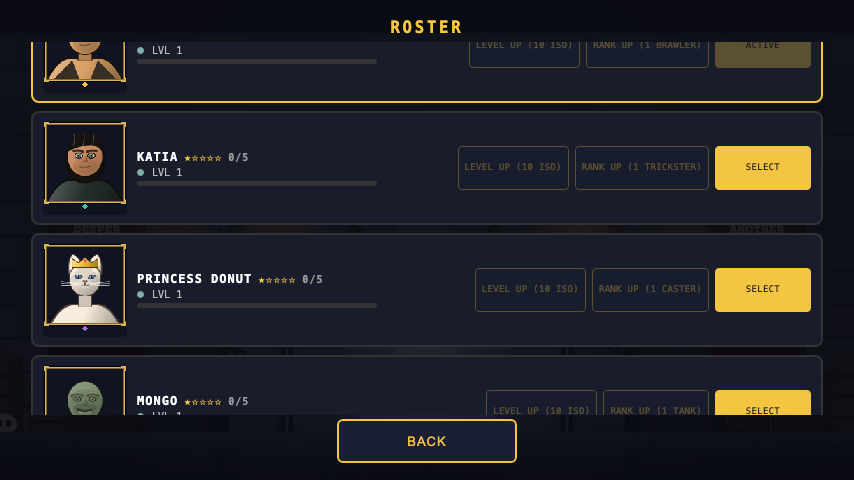
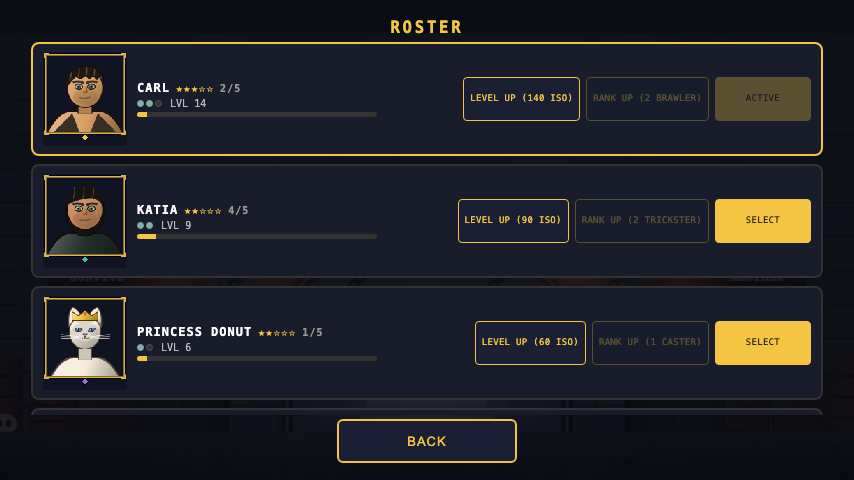
fix: roster first card was unreachable; make the card checks real
Fix-wave items 1 and 2 (final review Critical #1, Important #5, and the
Task 8.5 review's own Critical #1) -- one bug and the reason no test saw it.

.cards kept justify-content:center when Task 8.5 gave it overflow-y:auto.
On an overflowing scroll container this engine puts the start-side overflow
OUTSIDE the scrollable range, so the first champion's card was cut off at
every reachable scroll position: measured with a four-champion roster, its
top sat at -53.5px (854x480) / -98.5px (844x390) relative to #rosterCards
while the scroll range (0..54 / 0..99) only ever moved content further up.
That is ~99px of the ACTIVE champion -- portrait top, name, stars, the
ACTIVE button -- permanently unreachable on the phone target. .path's own
comment a hundred lines above already documents this exact behaviour and
fixes it with flex-start; the fix was never applied here. `safe center`
(with a plain flex-start declaration before it as the fallback) keeps a 1-2
champion roster centred and falls back to start alignment the moment the
list overflows: first card top 0, scroll range 0..107, last card still
reachable at max scroll.

Three things hid it, and --phone-check's card assertions now cover all of
them. They ran against a FRESH save (one champion -- one rect cannot
overlap another, so the roster half proved nothing), they sampled the
.node/.card PARENT rects (which provably cannot see the flex-shrink bug
they were written for: at ab73246 every row shrank to exactly its 44px
[…]

Changed region(s): [[0.0304, 0.0625, 0.9742, 0.875]]

diff --git a/index.html b/index.html
@@ -192,10 +192,24 @@ body.reduce-motion .node.next{animation:none;box-shadow:0 0 0 4px rgba(244,197,6
    name/DONUT's actions ran off both edges with overflow:hidden and no way to reach them). Same fix
    as fix-wave item 8 already applied to .path/.setrows/#shopBody: a list that outgrows its box
    scrolls to reach the rest instead of clipping it (the phone-layout brief's own "scrolling lists
-   allowed but no clipping" line). justify-content:center still centers a short (1-2 card) roster;
-   once content overflows, the browser's own scrollable-overflow behavior lets it be reached above
-   and below center by scrolling. */
-.cards{display:flex;flex-direction:column;gap:8px;overflow-y:auto;flex:1;justify-content:center}
+   allowed but no clipping" line).
+   Phase 8 final review, Critical #1 -- and the previous version of this comment was WRONG about the
+   second half of it. `justify-content:center` on an OVERFLOWING scroll container does not let the
+   overflow "be reached above and below center by scrolling": this engine places the start-side
+   overflow outside the scrollable range entirely, so it is unreachable at every scroll position.
+   Measured with the same 4-champion fixture the roster shot uses, before this fix: the first card's
+   top sat at -53.5px (854x480) / -98.5px (844x390) relative to #rosterCards at scrollTop 0, and the
+   scroll range (0..54 / 0..99) only ever moves content further UP -- so ~99px of the ACTIVE
+   champion's card (portrait top, name, stars, the ACTIVE button) was permanently cut off on the
+   phone target. That is exactly the behaviour .path's own comment a hundred lines above already
+   documents and fixes with flex-start; the fix was simply never applied here.
+   `safe center` is that fix while keeping what the centering was for: it behaves as `center` while
+   the content FITS (a 1-2 champion roster still sits mid-panel, no snap between densities) and falls
+   back to start alignment the moment it overflows, which puts the first card's top at 0 and inside
+   the scroll range (0..107 at 844x390, so the last card stays reachable too). The plain flex-start
+   declaration before it is the fallback for an engine with no `safe` overflow-alignment keyword: it
+   drops the whole declaration and lands on flex-start, which is never-centered but never clipped. */
+.cards{display:flex;flex-direction:column;gap:8px;overflow-y:auto;flex:1;justify-content:flex-start;justify-content:safe center}
 /* Task 8.5 fix round 1: flex-shrink:0, the same root-cause fix as .node above -- a roster card
    wasn't visibly overlapping (the controller's own note: "acceptable, only cut by scroll
    position"), but it was exposed to the identical flex-shrink risk as a scrollable flex-column

diff --git a/src/00_head.html b/src/00_head.html
@@ -192,10 +192,24 @@ body.reduce-motion .node.next{animation:none;box-shadow:0 0 0 4px rgba(244,197,6
    name/DONUT's actions ran off both edges with overflow:hidden and no way to reach them). Same fix
    as fix-wave item 8 already applied to .path/.setrows/#shopBody: a list that outgrows its box
    scrolls to reach the rest instead of clipping it (the phone-layout brief's own "scrolling lists
-   allowed but no clipping" line). justify-content:center still centers a short (1-2 card) roster;
-   once content overflows, the browser's own scrollable-overflow behavior lets it be reached above
-   and below center by scrolling. */
-.cards{display:flex;flex-direction:column;gap:8px;overflow-y:auto;flex:1;justify-content:center}
+   allowed but no clipping" line).
+   Phase 8 final review, Critical #1 -- and the previous version of this comment was WRONG about the
+   second half of it. `justify-content:center` on an OVERFLOWING scroll container does not let the
+   overflow "be reached above and below center by scrolling": this engine places the start-side
+   overflow outside the scrollable range entirely, so it is unreachable at every scroll position.
+   Measured with the same 4-champion fixture the roster shot uses, before this fix: the first card's
+   top sat at -53.5px (854x480) / -98.5px (844x390) relative to #rosterCards at scrollTop 0, and the
+   scroll range (0..54 / 0..99) only ever moves content further UP -- so ~99px of the ACTIVE
+   champion's card (portrait top, name, stars, the ACTIVE button) was permanently cut off on the
+   phone target. That is exactly the behaviour .path's own comment a hundred lines above already
+   documents and fixes with flex-start; the fix was simply never applied here.
+   `safe center` is that fix while keeping what the centering was for: it behaves as `center` while
+   the content FITS (a 1-2 champion roster still sits mid-panel, no snap between densities) and falls
+   back to start alignment the moment it overflows, which puts the first card's top at 0 and inside
+   the scroll range (0..107 at 844x390, so the last card stays reachable too). The plain flex-start
+   declaration before it is the fallback for an engine with no `safe` overflow-alignment keyword: it
+   drops the whole declaration and lands on flex-start, which is never-centered but never clipped. */
+.cards{display:flex;flex-direction:column;gap:8px;overflow-y:auto;flex:1;justify-content:flex-start;justify-content:safe center}
 /* Task 8.5 fix round 1: flex-shrink:0, the same root-cause fix as .node above -- a roster card
    wasn't visibly overlapping (the controller's own note: "acceptable, only cut by scroll
    position"), but it was exposed to the identical flex-shrink risk as a scrollable flex-column

diff --git a/tests/harness.py b/tests/harness.py
@@ -42,6 +42,14 @@ from playwright.sync_api import sync_playwright
 
 ROOT = os.path.dirname(os.path.dirname(os.path.abspath(__file__)))
 INDEX = 'file://' + os.path.join(ROOT, 'index.html')
+# The four-champion roster fixture, kept in one place because two things have to agree on it: the
+# docs/shots/p8-roster.png line in tools/shots.sh (which passes it as --pre) and --phone-check's own
+# roster seeding (Phase 8 final review, Important #5 -- a fresh one-champion save made every roster
+# card assertion vacuous). Four is the whole roster the game can grant today, so it is also the
+# densest list the .cards container ever has to lay out.
+ROSTER_PRE = ("Save.data.roster.katia={stars:1,rank:1,level:1,xp:0,shards:0};"
+              "Save.data.roster.donut={stars:1,rank:1,level:1,xp:0,shards:0};"
+              "Save.data.roster.mongo={stars:1,rank:1,level:1,xp:0,shards:0};Save.put()")
 
 def build_soak_js(seed, p1n, p2n, ain, ctrl_expr, ticks, enc='', probes=(), pre=''):
     """The one restart-on-KO soak loop, shared by run_matrix_cell and the plain `--sim` path: a
@@ -469,15 +477,15 @@ def main():
                           ">=44 CSS-px rect fully inside the viewport too -- one currently scrolled out "
                           "of a .path/.setrows/#shopBody internal scroll region is skipped, not failed, "
                           "since it's reachable by scrolling rather than clipped/inaccessible. Task 8.5 "
-                          "fix round 1: also asserts no two #mapPath .node elements' own bounding rects "
-                          "overlap, and likewise for #rosterCards .card, catching a flex-shrink layout "
-                          "bug (each row's box shrank below its own door-card/portrait-card child's "
-                          "real height, which then bled into neighboring rows) that per-button size/"
-                          "position checks alone can't see; and that the map's DOOR 1 (the door a "
-                          "player actually plays next) is fully inside the viewport with zero "
-                          "scrolling needed, even though the rest of a full floor may legitimately "
-                          "require it. Prints a JSON summary and exits 1 on any check failure or "
-                          "page/console error")
+                          "fix round 1, corrected by the Phase 8 final review: seeds the roster with "
+                          "the four-champion fixture (a fresh save has one champion, which made every "
+                          "roster assertion vacuous), then asserts -- for #mapPath .node and "
+                          "#rosterCards .card alike -- that no two rows' ART children (canvas.doorcard "
+                          "/ canvas.pcard) overlap, that no row's own box is shorter than that child "
+                          "(the flex-shrink bug itself, caught at the row it happens on), and that the "
+                          "first card of each list is fully inside both the viewport and its own "
+                          "scroll container while the last one stays reachable at max scroll. Prints a "
+                          "JSON summary and exits 1 on any check failure or page/console error")
     a = ap.parse_args()
     if a.floor is not None and a.node is None:
         ap.error('--floor requires --node (an index or "boss")')  # prints usage + exits 2
@@ -758,6 +766,16 @@ def main():
             pg2.goto(INDEX)
             pg2.wait_for_function('typeof G!=="undefined"')
             pg2.evaluate('localStorage.clear();Save.load()')
+            # Phase 8 final review, Important #5: a FRESH save has exactly one champion, so the
+            # roster half of the card checks below ran against a single rect -- one rect cannot
+            # overlap another, and one card cannot be pushed out of view by the ones above it, so
+            # the roster assertions proved nothing at all (the reviewer measured
+            # cardOverlap.roster.count == 1). Seeded here with the SAME four-champion fixture
+            # tools/shots.sh already uses for docs/shots/p8-roster.png, so the check runs against
+            # the densest roster the game can actually show today -- which is the density the
+            # Critical it now guards (the first card clipped above an unreachable scroll range)
+            # only appears at.
+            pg2.evaluate(ROSTER_PRE)
 
             def capture_screen(nav_js):
                 pg2.evaluate(nav_js)
@@ -806,15 +824,28 @@ def main():
             # child rendered at its real size and (overflow:visible) bled into the row above/below it.
             # That's a real, screenshot-visible defect no per-button size/position check above would
             # ever catch (each individual button can still be >=44px and "inside the viewport" while
-            # overlapping its neighbor) -- so this checks the one property that actually rules it out:
-            # no two sibling node/card elements' own bounding rects may overlap on both axes. A small
-            # 0.5px tolerance absorbs sub-pixel layout rounding between genuinely-adjacent (touching,
-            # zero-gap) rects without masking a real double-digit-pixel overlap.
-            def rects_for(selector):
-                return pg2.evaluate("""(sel=>[...document.querySelectorAll(sel)].map(el=>{
-                  const r=el.getBoundingClientRect();
-                  return{left:r.left,top:r.top,right:r.right,bottom:r.bottom};
-                }))(%s)""" % json.dumps(selector))
+            # overlapping its neighbor).
+            #
+            # Phase 8 final review, Important #5 / Task 8.5 review Critical #1: the first version of
+            # this check sampled the .node/.card PARENT rects, which is the one thing that provably
+            # could NOT see that bug -- at the broken commit (ab73246) every .node had shrunk to
+            # exactly its 44px min-height, so the parents were touching-but-never-overlapping and the
+            # assertion reported `bad_pairs: []` on the known-broken tree. Only the canvas CHILDREN
+            # overlapped. Two assertions replace it, both aimed at the actual failure mode:
+            #   * ART OVERLAP -- the same pairwise test, run on the visual content itself
+            #     (canvas.doorcard / canvas.pcard), which is what a reader of the screenshot sees;
+            #   * SHRUNK -- every .node/.card's own bounding height must be >= its art child's
+            #     rendered height. This catches the shrink DIRECTLY, at the one row it happens on,
+            #     without needing a neighbour to bleed into, so it fails even on a one-row list.
+            # A small 0.5px tolerance absorbs sub-pixel layout rounding between genuinely-adjacent
+            # (touching, zero-gap) rects without masking a real double-digit-pixel overlap.
+            def card_rects(selector, art_selector):
+                return pg2.evaluate("""(a=>[...document.querySelectorAll(a[0])].map(el=>{
+                  const r=el.getBoundingClientRect(),art=el.querySelector(a[1]);
+                  const ar=art?art.getBoundingClientRect():null;
+                  const box=q=>({left:q.left,top:q.top,right:q.right,bottom:q.bottom,height:q.height});
+                  return{parent:box(r),art:ar?box(ar):null};
+                }))(%s)""" % json.dumps([selector, art_selector]))
 
             def overlap_pairs(rects):
                 pairs = []
@@ -826,43 +857,85 @@ def main():
                             pairs.append([i, j])
                 return pairs
 
-            overlap_results = {}
-            nav_by_name = dict(SCREENS)
-            for scr_name, sel in (('map', '#mapPath .node'), ('roster', '#rosterCards .card')):
-                pg2.evaluate(nav_by_name[scr_name])
-                rects = rects_for(sel)
-                overlap_results[scr_name] = {'count': len(rects), 'bad_pairs': overlap_pairs(rects)}
+            # Phase 8 final review, Critical #1: "the first card must be fully visible without
+            # scrolling" was asserted for the map only, and the roster shipped a first card that was
+            # cut off at EVERY reachable scroll position (justify-content:center puts an overflowing
+            # flex column's start-side overflow outside the scroll range). Checked here for both
+            # lists, against two separate properties, because the map bug and the roster bug failed
+            # differently: `insideViewport` is the original map assertion; `insideScroller` is the
+            # roster one (a card can sit inside the viewport and still be clipped by its own
+            # overflow-y:auto ancestor). `lastReachable` is the other half of the same ruling -- a
+            # long list is ALLOWED to scroll (Phase 6), so the fix for the first card must not push
+            # the last one past the end of the scroll range; scrollTop is restored afterwards so the
+            # measurement never changes what a later check or a screenshot sees.
+            def first_card_state(sel):
+                return pg2.evaluate("""(sel=>{
+                  const all=[...document.querySelectorAll(sel)];
+                  if(!all.length)return null;
+                  const el=document.querySelector(sel+'.open')||all[0],last=all[all.length-1];
+                  let sc=el.parentElement;
+                  while(sc&&sc!==document.documentElement&&
+                        !/(auto|scroll)/.test(getComputedStyle(sc).overflowY))sc=sc.parentElement;
+                  const r=el.getBoundingClientRect();
+                  const box=q=>({left:q.left,top:q.top,right:q.right,bottom:q.bottom});
+                  let insideScroller=true,lastReachable=true,scrollRange=null;
+                  if(sc&&sc!==document.documentElement){
+                    const sr=sc.getBoundingClientRect();
+                    insideScroller=r.top>=sr.top-0.5&&r.bottom<=sr.bottom+0.5;
+                    const was=sc.scrollTop;
+                    // .path is flex-direction:column-reverse, so ITS scroll range runs from a
+                    // negative minimum up to 0 while .cards' runs 0..max -- probe both ends rather
+                    // than assuming a direction, and count the last row reachable if EITHER extreme
+                    // brings it fully inside.
+                    sc.scrollTop=-1e6;const min=sc.scrollTop;
+                    const fits=()=>{const lr=last.getBoundingClientRect(),s2=sc.getBoundingClientRect();
+                      return lr.top>=s2.top-0.5&&lr.bottom<=s2.bottom+0.5};
+                    lastReachable=fits();
+                    sc.scrollTop=1e6;const max=sc.scrollTop;
+                    lastReachable=lastReachable||fits();
+                    sc.scrollTop=was;
+                    scrollRange=[min,max]}
+                  return{rect:box(r),count:all.length,insideScroller,lastReachable,scrollRange};
+                })(%s)""" % json.dumps(sel))
 
-            # Task 8.5 fix round 1 (controller ruling, distinct from the overlap check above): "at
-            # 844x390 the first card must be fully visible without scrolling" -- a full floor with
-            # 5 doors + boss legitimately needs #mapPath to scroll (Phase 6 ruling), but the door a
-            # player actually plays next (DOOR 1, the map's own .node.open in a worst-case fresh
-            # floor) must never itself require scrolling to reach at the game's tightest supported
-            # viewport. Sampled straight off the live page (not re-derived from CSS assumptions) so
-            # a future layout change that regresses this gets caught here, not just by eye.
-            pg2.evaluate(nav_by_name['map'])
-            first_door = pg2.evaluate("""(()=>{
-              const el=document.querySelector('#mapPath .node.open')||document.querySelector('#mapPath .node');
-              if(!el)return null;
-              const r=el.getBoundingClientRect();
-              return{top:r.top,bottom:r.bottom,left:r.left,right:r.right};
-            })()""")
+            overlap_results, first_cards = {}, {}
+            nav_by_name = dict(SCREENS)
             vw2, vh2 = pg2.evaluate('innerWidth'), pg2.evaluate('innerHeight')
-            first_door_ok = bool(first_door) and (
-                first_door['top'] >= -0.5 and first_door['left'] >= -0.5 and
-                first_door['bottom'] <= vh2 + 0.5 and first_door['right'] <= vw2 + 0.5)
+            for scr_name, sel, art_sel in (('map', '#mapPath .node', 'canvas.doorcard'),
+                                           ('roster', '#rosterCards .card', 'canvas.pcard')):
+                pg2.evaluate(nav_by_name[scr_name])
+                entries = card_rects(sel, art_sel)
+                arts = [e['art'] for e in entries if e['art']]
+                shrunk = [i for i, e in enumerate(entries)
+                          if e['art'] and e['parent']['height'] < e['art']['height'] - 0.5]
+                overlap_results[scr_name] = {'count': len(entries), 'artCount': len(arts),
+                                             'bad_pairs': overlap_pairs(arts), 'shrunk': shrunk}
+                st = first_card_state(sel)
+                if st:
+                    r = st['rect']
+                    st['insideViewport'] = (r['top'] >= -0.5 and r['left'] >= -0.5 and
+                                            r['bottom'] <= vh2 + 0.5 and r['right'] <= vw2 + 0.5)
+                    st['ok'] = st['insideViewport'] and st['insideScroller'] and st['lastReachable']
+                first_cards[scr_name] = st
+
+            # firstDoor/firstDoorOk kept under their original names: docs/ARENA.md and the Task 8.5
+            # reports quote them, and the map half of the ruling is unchanged.
+            first_door = first_cards['map']['rect'] if first_cards['map'] else None
+            first_door_ok = bool(first_cards['map']) and first_cards['map']['ok']
             b2.close()
         screens_bad = [r['screen'] for r in screen_results if r['bad']]
-        overlap_bad = [name for name, v in overlap_results.items() if v['bad_pairs']]
+        overlap_bad = [name for name, v in overlap_results.items() if v['bad_pairs'] or v['shrunk']]
+        first_card_bad = [name for name, v in first_cards.items() if not v or not v['ok']]
 
         out = {'errors': errs, 'attackButtonsHidden': hidden_out, 'attackButtonsShown': shown_out,
                'wiring_ok': wiring_ok, 'screens': screen_results, 'screenErrors': screen_errs,
-               'cardOverlap': overlap_results, 'firstDoor': first_door, 'firstDoorOk': first_door_ok}
+               'cardOverlap': overlap_results, 'firstCard': first_cards,
+               'firstDoor': first_door, 'firstDoorOk': first_door_ok}
         print(json.dumps(out, indent=1))
         bad = (errs or not hidden_out['aspect_ok'] or not hidden_out['fits_ok'] or hidden_out['bad_btns']
                or not hidden_out['no_hscroll'] or not shown_out['aspect_ok'] or not shown_out['fits_ok']
                or shown_out['bad_btns'] or not shown_out['no_hscroll'] or not wiring_ok
-               or screen_errs or screens_bad or overlap_bad or not first_door_ok)
+               or screen_errs or screens_bad or overlap_bad or first_card_bad)
         sys.exit(1 if bad else 0)
     errors, console = [], []
     with sync_playwright() as p:
